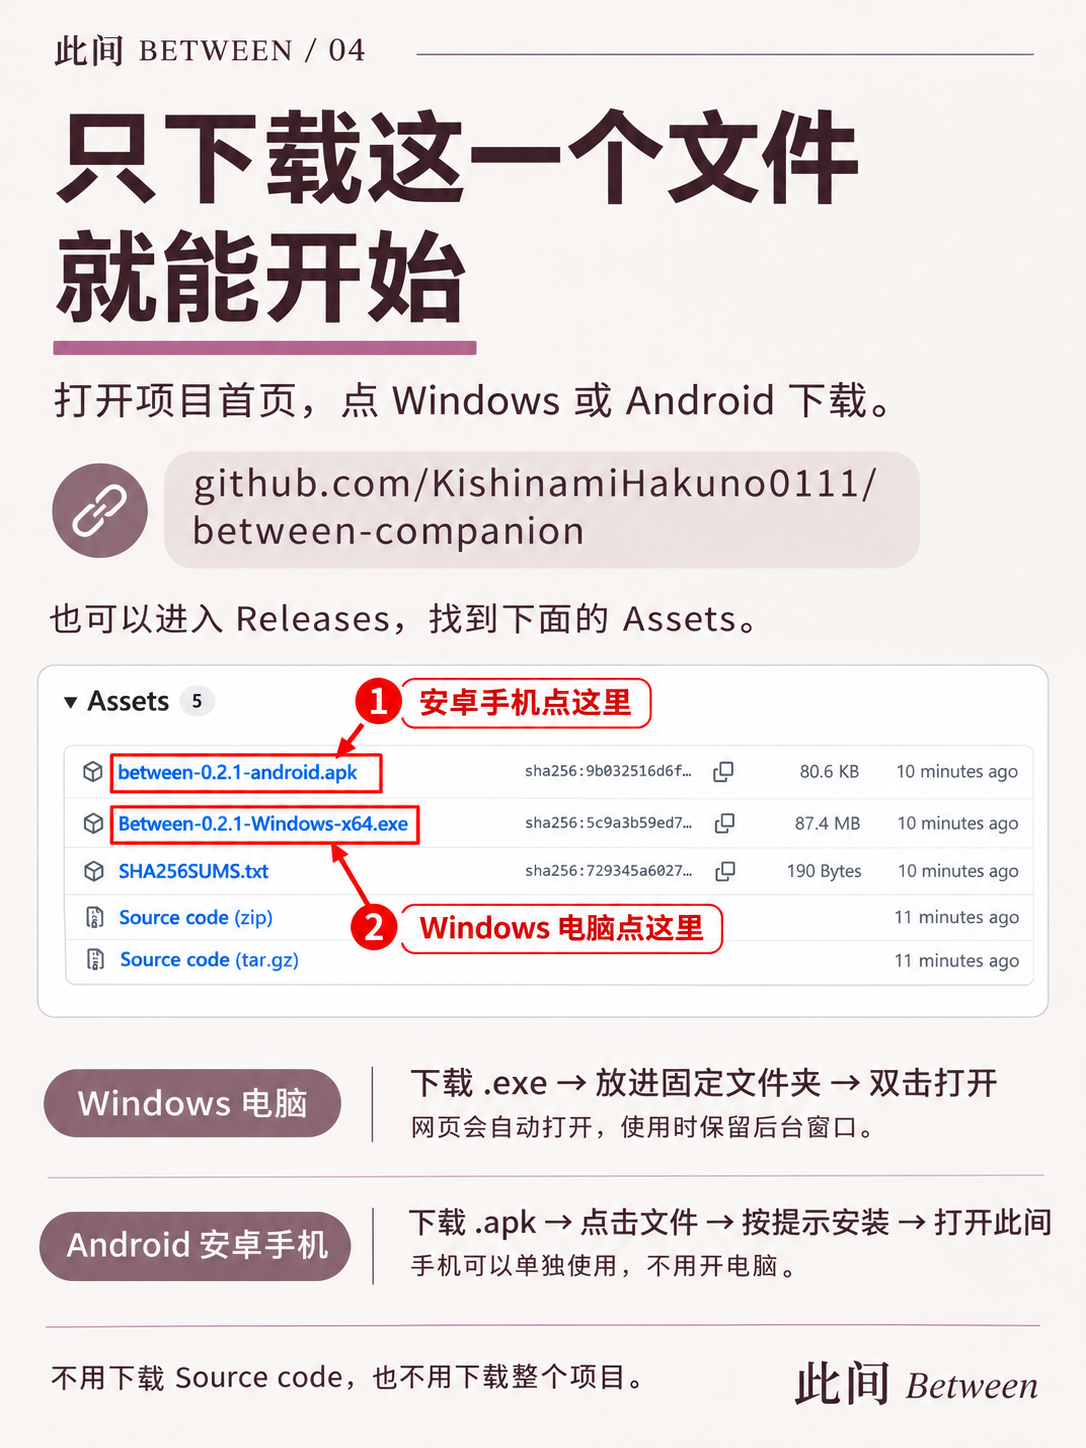
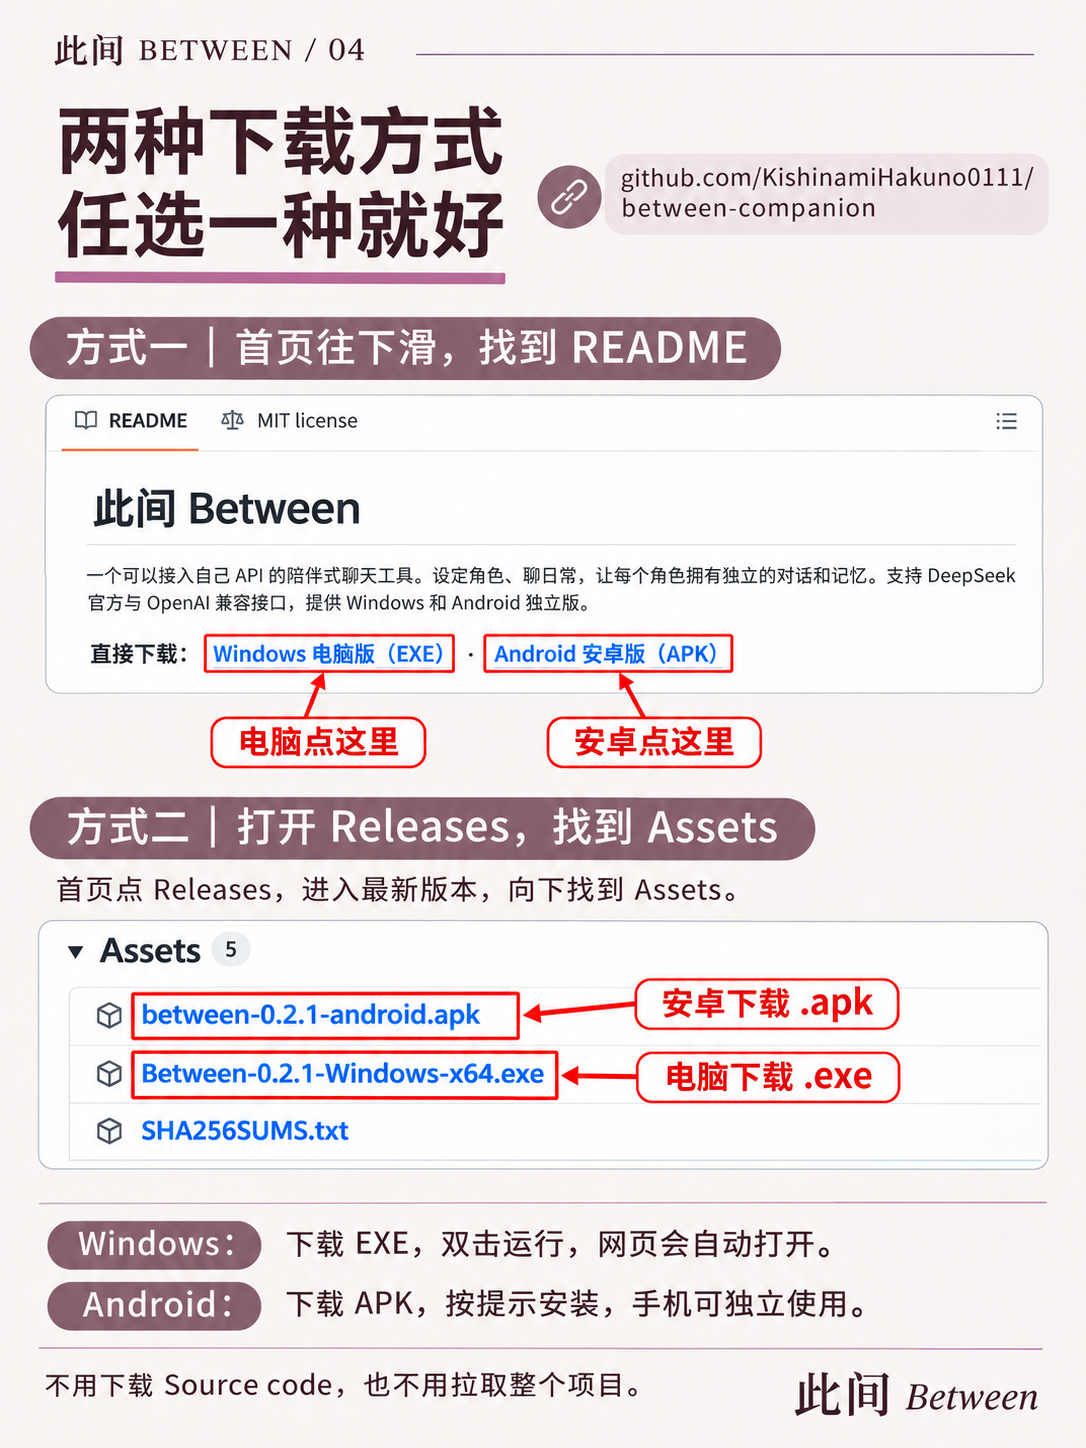
Show README and Releases as alternative download routes

diff --git a/docs/QUICKSTART.md b/docs/QUICKSTART.md
@@ -4,6 +4,8 @@
 
 不用下载整个项目。电脑双击 EXE，安卓点击 APK 安装。软件免费开源，模型 API 按服务商实际用量收费。
 
+两种下载方式任选一种：在项目首页向下滑过文件列表，找到 README 的「直接下载」链接；或打开 Releases 的最新版本，在 Assets 中下载 Windows 的 `.exe` 或安卓的 `.apk`。
+
 ## 下载安装
 
 ![下载安装](guide/04.png)
